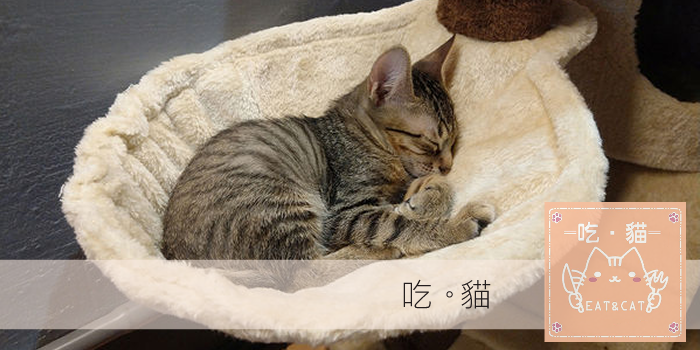
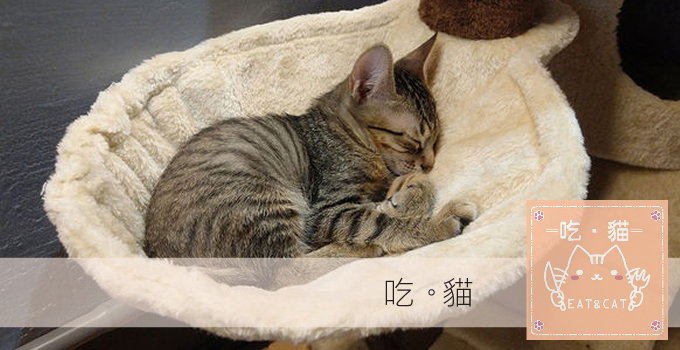
05

diff --git a/cateverything.html b/cateverything.html
@@ -44,7 +44,7 @@
                 </div>
             </nav>
             <!-- Page Content 1-->
-            <section class="pd-5" style="background-size: cover; background-image: url(assets/img/08.png); background-position: center">
+            <section class="pd-5" style="background-size: cover; background-image: url(assets/img/08.png); background-position: right">
                 <div class="container px-5">
                     <div class="card border-0 shadow rounded-3 overflow-hidden">
                         <div class="card-body p-0">
@@ -68,7 +68,7 @@
                 </div>
             </section>
 			<!-- Page Content 2-->
-            <section class="py-5" style="background-size: cover; background-image: url(assets/img/09.png); background-position: center">
+            <section class="py-5" style="background-size: cover; background-image: url(assets/img/09.png); background-position: right">
                 <div class="container px-5">
                     <div class="card border-0 shadow rounded-3 overflow-hidden">
                         <div class="card-body p-0">
@@ -90,7 +90,7 @@
                 </div>
             </section>
 			<!-- Page Content 3-->
-            <section class="py-5" style="background-size: cover; background-image: url(assets/img/08.png); background-position: center">
+            <section class="py-5" style="background-size: cover; background-image: url(assets/img/08.png); background-position: right">
                 <div class="container px-5">
                     <div class="card border-0 shadow rounded-3 overflow-hidden">
                         <div class="card-body p-0">
@@ -112,7 +112,7 @@
                 </div>
             </section>
 			<!-- Page Content 4-->
-            <section class="py-5" style="background-size: cover; background-image: url(assets/img/09.png); background-position: center">
+            <section class="py-5" style="background-size: cover; background-image: url(assets/img/09.png); background-position: right">
                 <div class="container px-5">
                     <div class="card border-0 shadow rounded-3 overflow-hidden">
                         <div class="card-body p-0">
@@ -134,7 +134,7 @@
                 </div>
             </section>
 			<!-- Page Content 5-->
-            <section class="py-5" style="background-size: cover; background-image: url(assets/img/08.png); background-position: center">
+            <section class="py-5" style="background-size: cover; background-image: url(assets/img/08.png); background-position: right">
                 <div class="container px-5">
                     <div class="card border-0 shadow rounded-3 overflow-hidden">
                         <div class="card-body p-0">
